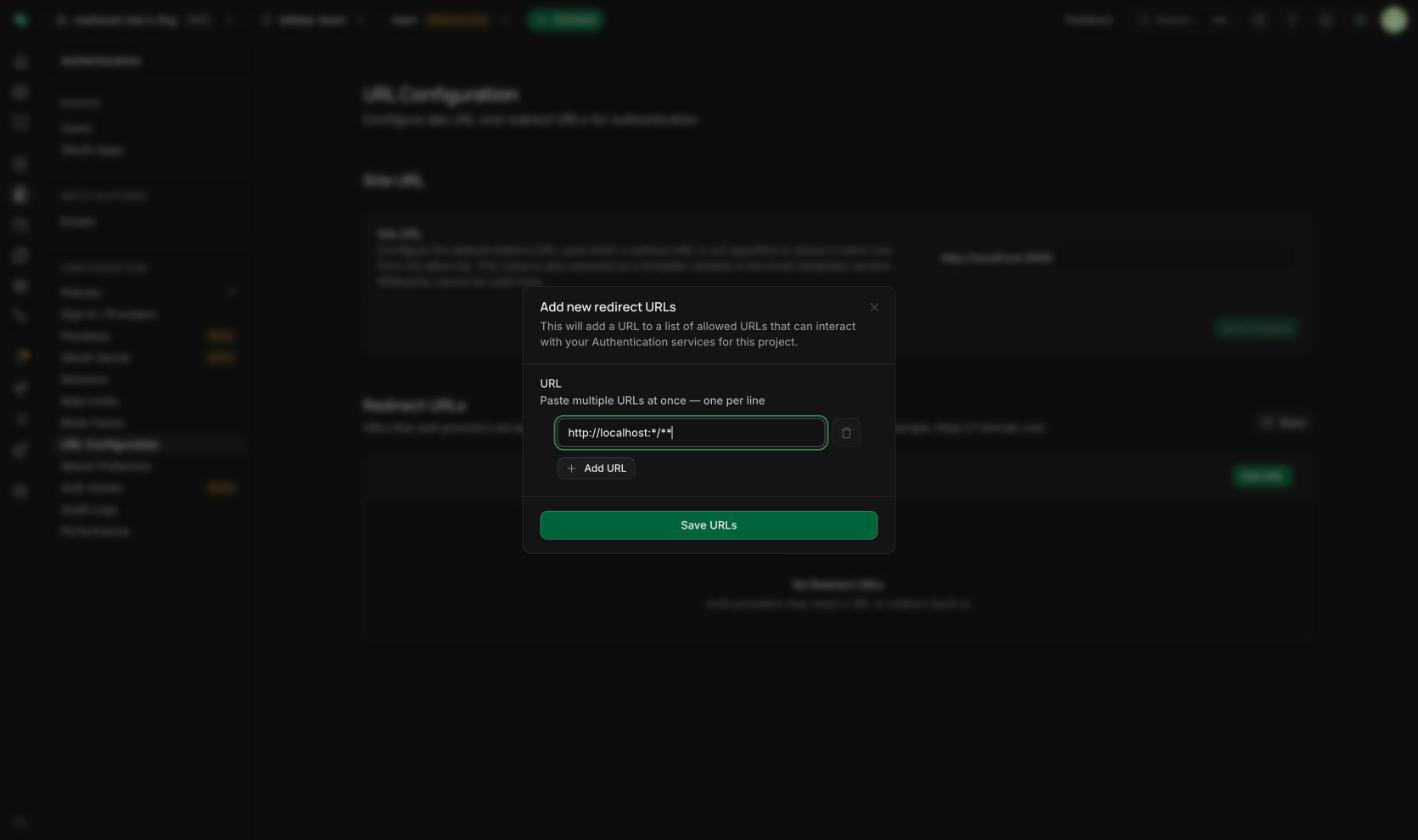
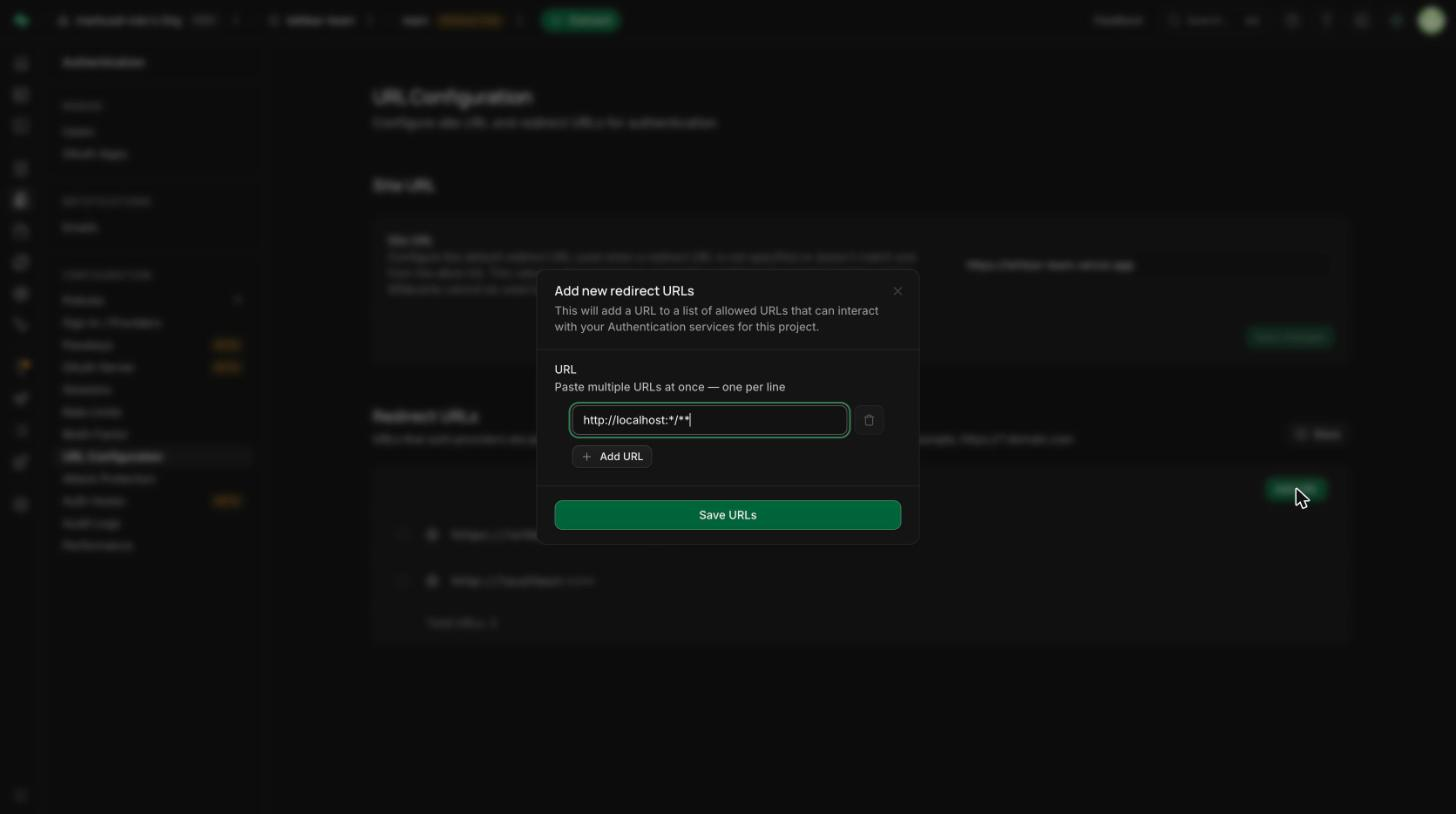
Login lokal & live: neue Bilder (Site URL = Vercel, fertige Liste), Prompt in der Bibliothek
Screenshots aus leihbar-team nach der Umstellung; Tag 3 ohne eigene Minutenangabe
(liegt in den 10 min des Blocks); Bekannte Probleme nennt wieder „lokal, aber nicht
auf Vercel“ und verlinkt die Anleitung.

Claude-Session: https://claude.ai/code/session_01JUbRFVUbJqksVy3Sw9ExuL

diff --git a/src/lib/login-regel.ts b/src/lib/login-regel.ts
@@ -1,4 +1,4 @@
-// Prompt „Regel für Login-Weiterleitungen“ – steht in Tag 2 (Übung 5e) und auf /login-lokal-und-live.
+// Prompt „Regel für Login-Weiterleitungen“ – steht in Tag 2 (Übung 5e), in der Prompt-Bibliothek und auf /login-lokal-und-live.
 // Dieselbe Regel steht in CLAUDE.md der Templates ndu-coding-2026 und ndu-projekt; bei Änderungen dort mitziehen.
 export const LOGIN_REGEL_PROMPT =
   'Trag in CLAUDE.md im Abschnitt Tech-Stack diese Regel als eigenen Punkt „Login-Weiterleitungen“ ein, falls sie fehlt: ' +
